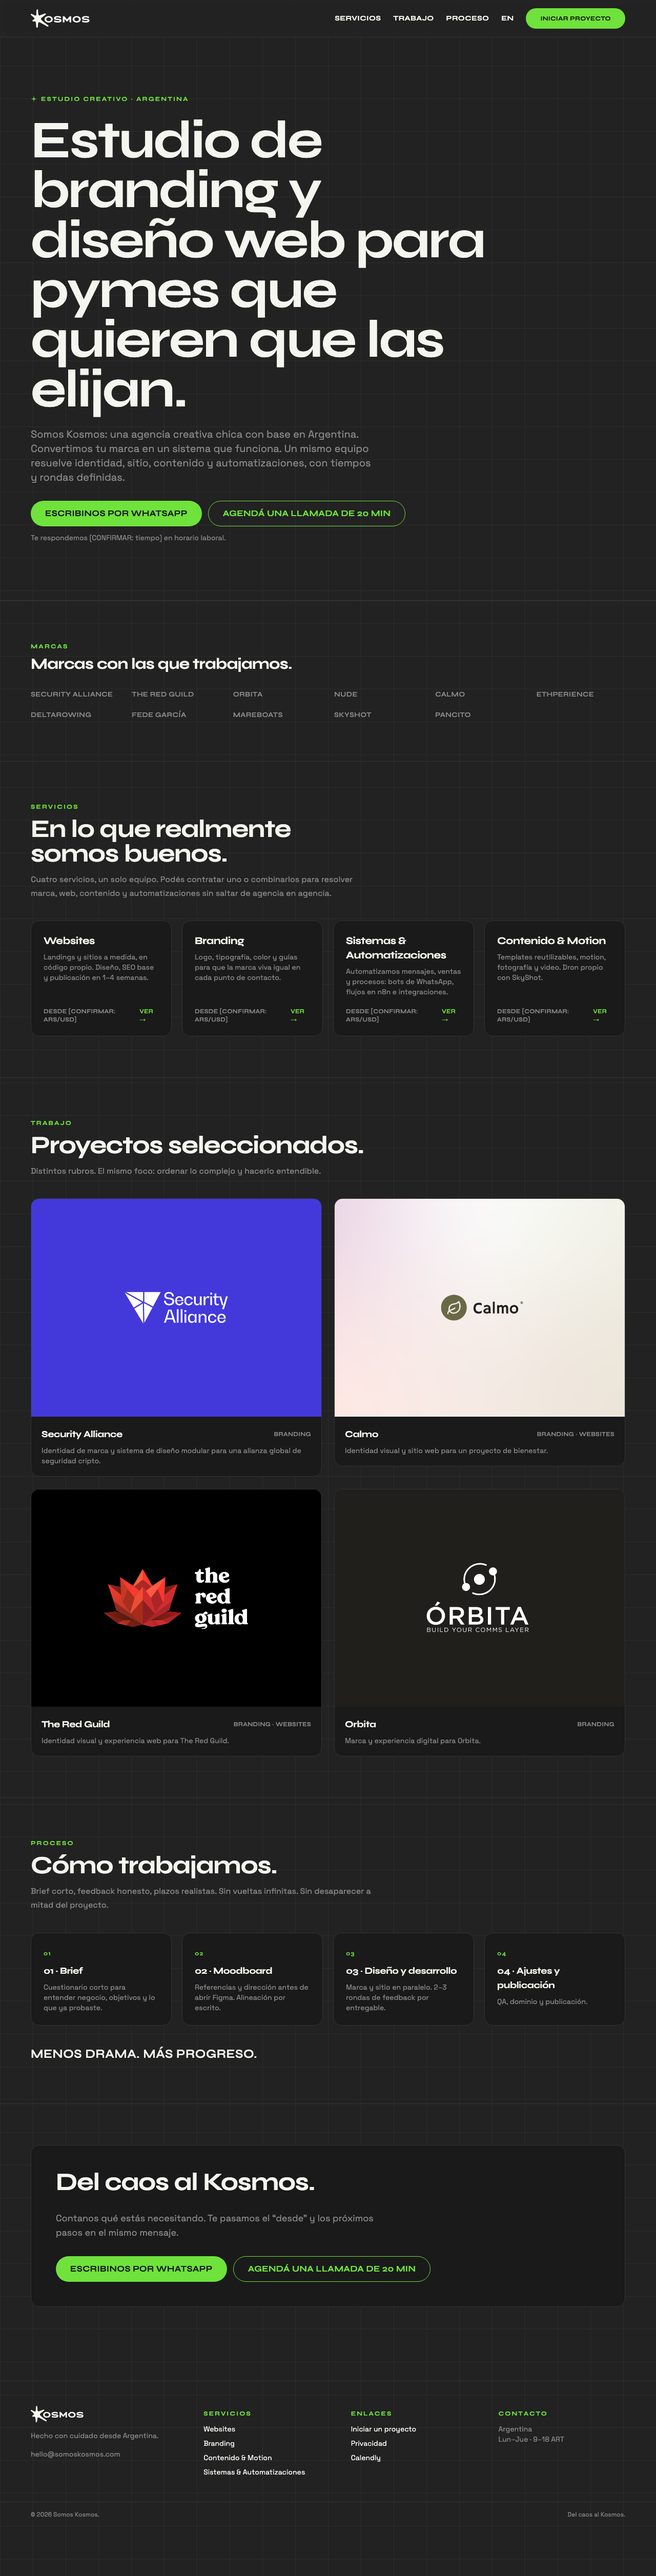
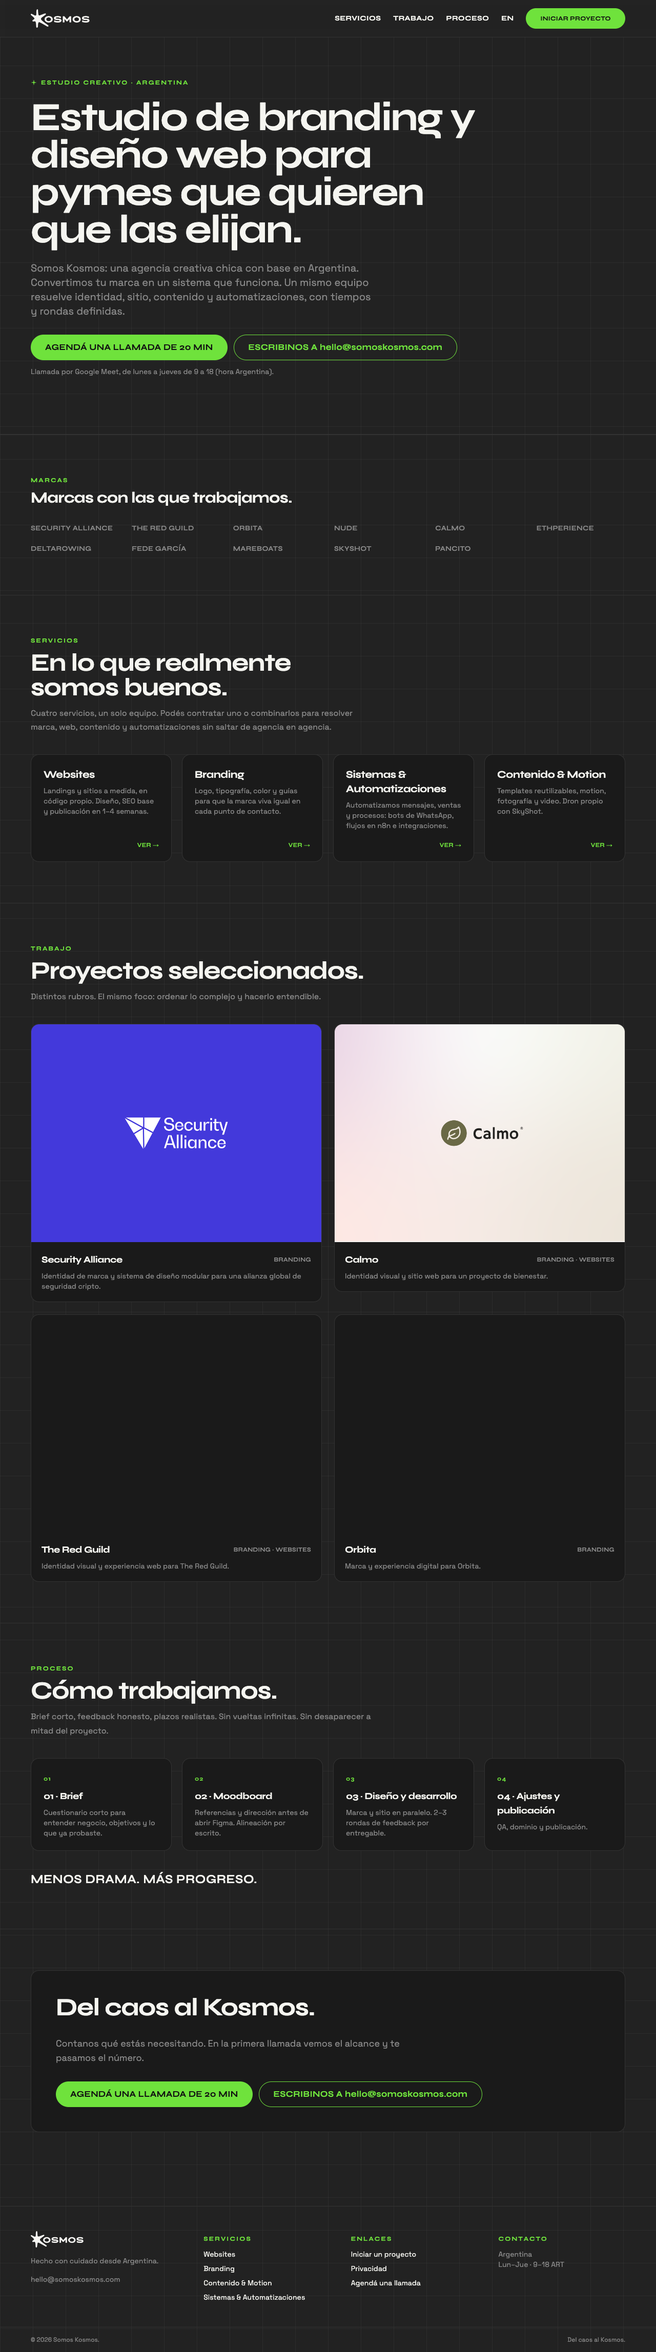
seo: QA del cierre de datos y capturas nuevas (360x740, 1280x800)

diff --git a/seo/qa-cierre.md b/seo/qa-cierre.md
@@ -65,3 +65,53 @@ porque la fuente no dice más; se completan cuando haya datos del caso.
 
 Las capturas se toman con un viewport tan alto como la página, así que el CTA del hero queda
 siempre a la vista y el botón flotante no aparece (es lo esperado).
+
+> Tercera pasada: el botón flotante ya no existe y las capturas de arriba se regeneraron.
+
+---
+
+# Cierre de datos — 2026-11-10 (tercera pasada)
+
+Un commit por punto en `kosmos/web-2026`. Verificación con Playwright (Chrome headless) sobre
+`out/` servido en local.
+
+| # | Cambio | Verificación |
+|---|---|---|
+| 1 | CTA: "Agendá una llamada de 20 min" (Calendly) + "Escribinos a hello@somoskosmos.com" (mailto), `data-event` = `calendly_click` / `email_click`. Fuera `StickyCta`, `lib/whatsapp.ts` y todo `wa.me`. `/brief` con esas dos opciones | `grep -rl wa.me out/` → **0 archivos** · 0 botones flotantes en 23 páginas |
+| 2 | Precios: fuera "Desde [CONFIRMAR]" y el alcance del precio de entrada. Bloque fijo: "Cotizamos cada proyecto por alcance. Te pasamos el número en la primera llamada." + 50/50 | grep "desde"/"starting price" en el código → 0 |
+| 3 | Tiempos: fuera FAQ de duración de branding y la duración de pruebas en automatizaciones. Websites sin cambios | — |
+| 4 | Hechos de Fede (10/11/2026): mantenimiento mensual ("lo vemos según el proyecto"), archivos editables en branding, piezas mensuales en contenido, dron según zona | Cargados también en `00-contexto.md` |
+| 5 | Privacidad: responsable "Somos Kosmos", contacto hello@; solo Calendly + email; el sitio no usa analítica ni cookies de seguimiento | copy_lint 100 |
+| 6 | Thumbnails: captura 1280×800 del sitio real en WebP (`public/projects/<slug>/thumb.webp`) para ETHperience, DeltaRowing, Fede García, MareBoats, SkyShot y Pancito. Los 6 cargaron (SkyShot con 12 s de espera por su loader). Placeholder de marca sin texto visible | Revisadas a ojo las 6 capturas |
+| 7 | Fuera lo que sigue sin dato: otras herramientas de automatización, nota de ejemplo publicable, "qué se entrega al final" | `grep -rl CONFIRMAR out/` → **0 archivos** |
+| 8 | H1 del hero −25 % en desktop (`clamp(2.125rem, 6vw, 5.625rem)`: 102 → 77 px a 1280) y padding superior 112 → 80 px | Botones del hero ≤ 776 px en 1280×800 en **22/22** páginas con hero CTA |
+
+Extra: en 360 px el botón de email cortaba la dirección a la mitad ("HELLO@SO / MOSKOSMOS.COM");
+ahora el email va en minúsculas y la línea se parte antes. Y "landing page para negocio" vuelve
+en la FAQ de tiempos de websites (se había perdido con el texto del precio).
+
+## Resultado de los scripts (último build)
+| Chequeo | Resultado |
+|---|---|
+| `npm run build` | OK, TS estricto, 28 rutas |
+| `scrollWidth` a 360 | **23/23** = 360 |
+| CTA del hero sin scroll a 360×740 | 22/22 (máx. 725 px, automatizaciones) · `/privacidad` no tiene hero CTA |
+| CTA del hero sin scroll a 1280×800 | 22/22 (máx. 776 px, websites y automatizaciones) |
+| `kw_coverage.py --geo Argentina` | home 100 % · websites 86 % · branding 100 % · automatizaciones 83 % · contenido 100 % — todos ✅ |
+| `copy_lint.py` | home 94 · websites 98 · branding 98 · automatizaciones 96 · contenido 98 · brief 97 · privacidad 100 · EN (5 páginas) 99 — todos ✅ |
+| Técnico | 1 H1 por página, 0 links internos rotos, sitemap 23 URLs, títulos con la marca una vez (24/24) |
+
+`kw_coverage` sin `--geo` toma "negocios" como lugar y marca una inserción forzada falsa en el H1
+de automatizaciones ("…para negocios que quieren…"); con `--geo Argentina` (como en las pasadas
+anteriores) pasa.
+
+Sigue igual: descriptions cortas de Orbita (54) y The Red Guild (69); "página web para mi negocio"
+y "automatizar procesos de ventas" ausentes (ver qa de cada página).
+
+## Capturas
+| | 360 × 740 (pantalla inicial) | 1280 × 800 (pantalla inicial) |
+|---|---|---|
+| Home | ![home 360 fold](capturas/home-360x740-fold.png) | ![home 1280 fold](capturas/home-1280x800-fold.png) |
+| /services/websites | ![websites 360 fold](capturas/websites-360x740-fold.png) | ![websites 1280 fold](capturas/websites-1280x800-fold.png) |
+
+Página completa: `capturas/home-360.png`, `home-1280.png`, `websites-360.png`, `websites-1280.png`.

diff --git a/seo/ESTADO.md b/seo/ESTADO.md
@@ -43,6 +43,18 @@ QA de todas las páginas: `seo/qa-cierre.md` (2026-11-10).
 - [x] `gbp.md` con lo que se sabe (no existe ficha; se crea post-merge)
 - [x] PR #1 abierto (2026-11-10). Nada mergeado.
 
+## Cierre de datos (2026-11-10, tercera pasada)
+- [x] CTA: llamada de 20 min (Calendly) + email; sin WhatsApp ni botón flotante
+- [x] Precios: sin "desde"; "Cotizamos cada proyecto por alcance…" + 50/50
+- [x] Tiempos: solo websites
+- [x] Hechos de Fede: mantenimiento mensual, archivos editables, piezas mensuales, dron según zona
+- [x] Privacidad: responsable Somos Kosmos, solo Calendly + email, sin analítica
+- [x] Thumbnails de los 6 casos sin imagen: captura del sitio real (WebP 1280×800)
+- [x] Cero `[CONFIRMAR]` y cero `wa.me` en `out/`
+- [x] H1 desktop −25 %: botones del hero visibles en 1280×800
+- Pendiente: `brief.md`/`contenido.md` por página todavía describen el CTA de WhatsApp (son
+  notas de trabajo; la fuente vigente es PLAN §5–§6 y `00-contexto.md`)
+
 Estados: ⬜ pendiente · 🟡 en curso · ✅ aprobado/hecho · ⛔ bloqueado
 
 ## Baseline del repo (2026-10-26)
@@ -58,16 +70,16 @@ Estados: ⬜ pendiente · 🟡 en curso · ✅ aprobado/hecho · ⛔ bloqueado
 
 ## Pendientes del cliente (bloquean publicación)
 Ver `PLAN.md § 9` para la lista completa. Resumen:
-- [ ] Número de WhatsApp de ventas, quién responde y tiempo de respuesta
-- [ ] Precio "desde" por servicio (ARS + USD)
-- [ ] Ejemplo concreto de automatización publicable
+- [x] ~~Número de WhatsApp~~: descartado, CTA = Calendly + email (10/11/2026)
+- [x] ~~Precio "desde"~~: descartado, se cotiza por alcance (10/11/2026)
+- [ ] Ejemplo concreto de automatización publicable (la frase se sacó de la web)
 - [ ] Ciudad publicable (o "remoto desde Argentina")
 - [ ] 3–5 testimonios con nombre
 - [ ] Fotos reales de equipo y proceso
-- [ ] Thumbnails de ETHperience, DeltaRowing, Fede García, MareBoats, SkyShot, Pancito
+- [x] Thumbnails de ETHperience, DeltaRowing, Fede García, MareBoats, SkyShot, Pancito (captura del sitio real; reemplazables)
 - [ ] Nombre exacto "DeltaRowing"
 - [ ] Links reales de Instagram, LinkedIn, Behance
-- [ ] Texto de /privacidad
+- [x] Texto de /privacidad
 - [ ] Propiedad de GA4
 
 ## Decisiones tomadas sin consultar (y resúmenes de checkpoint)
